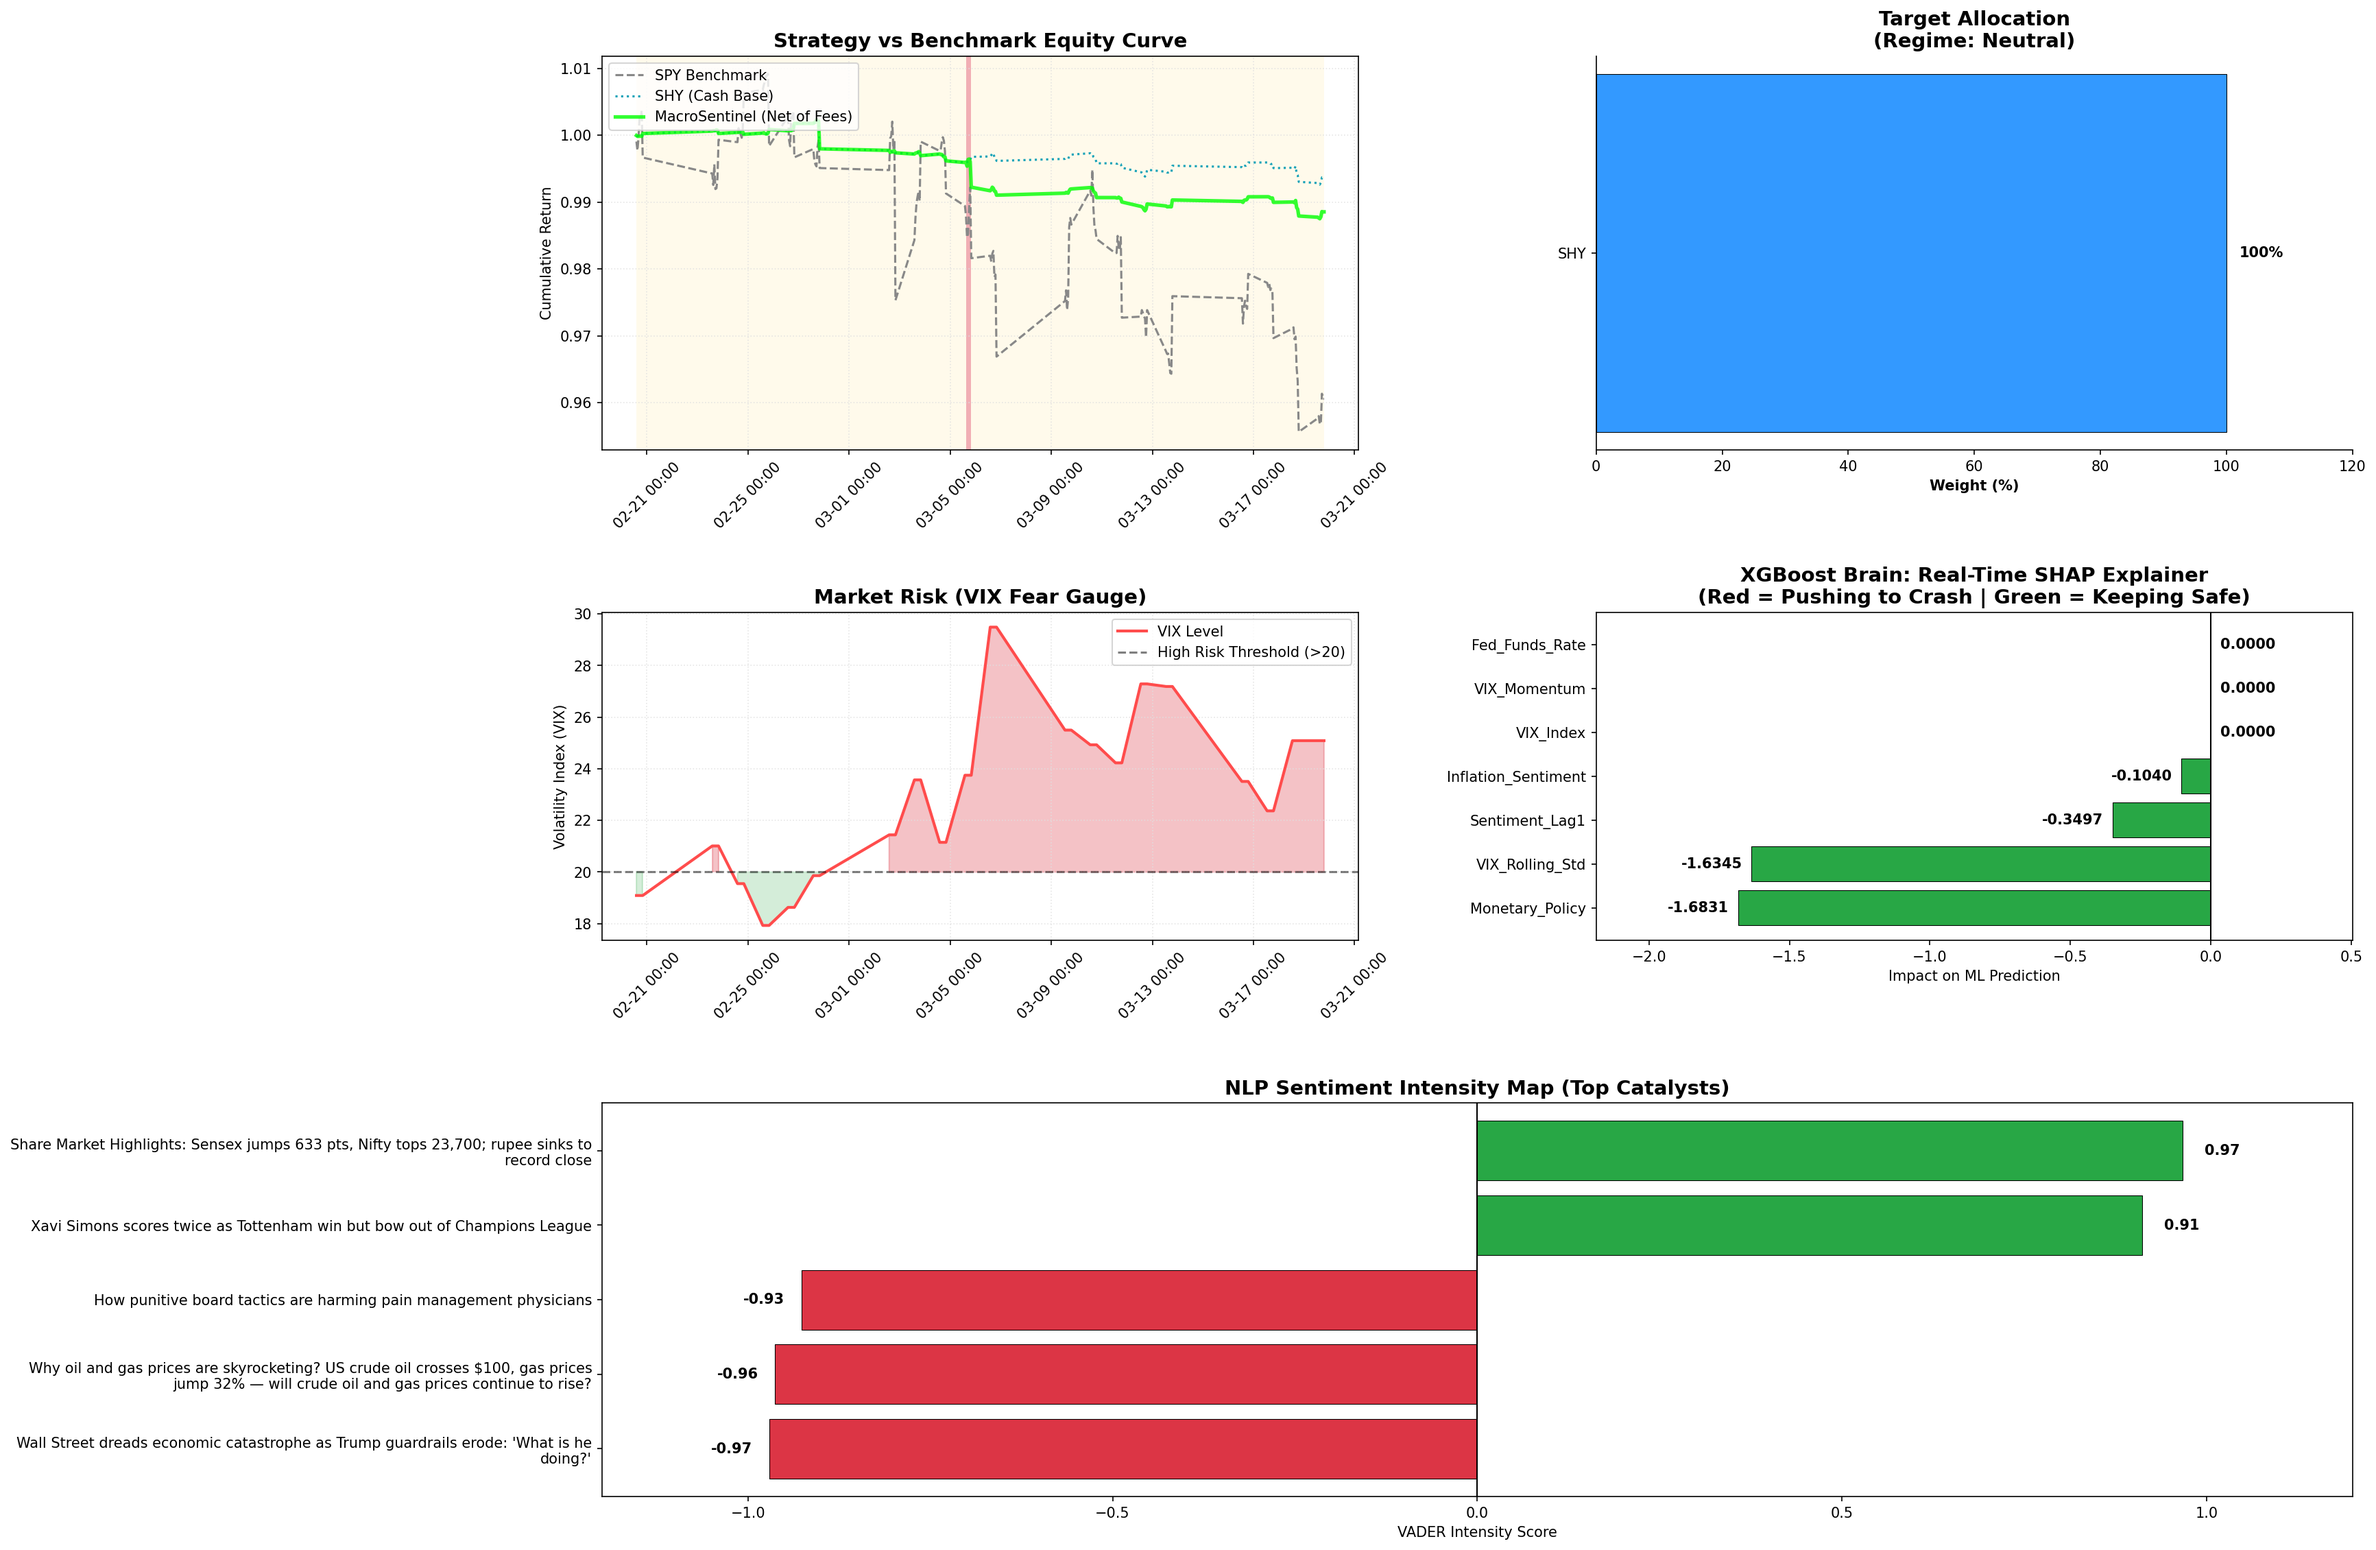
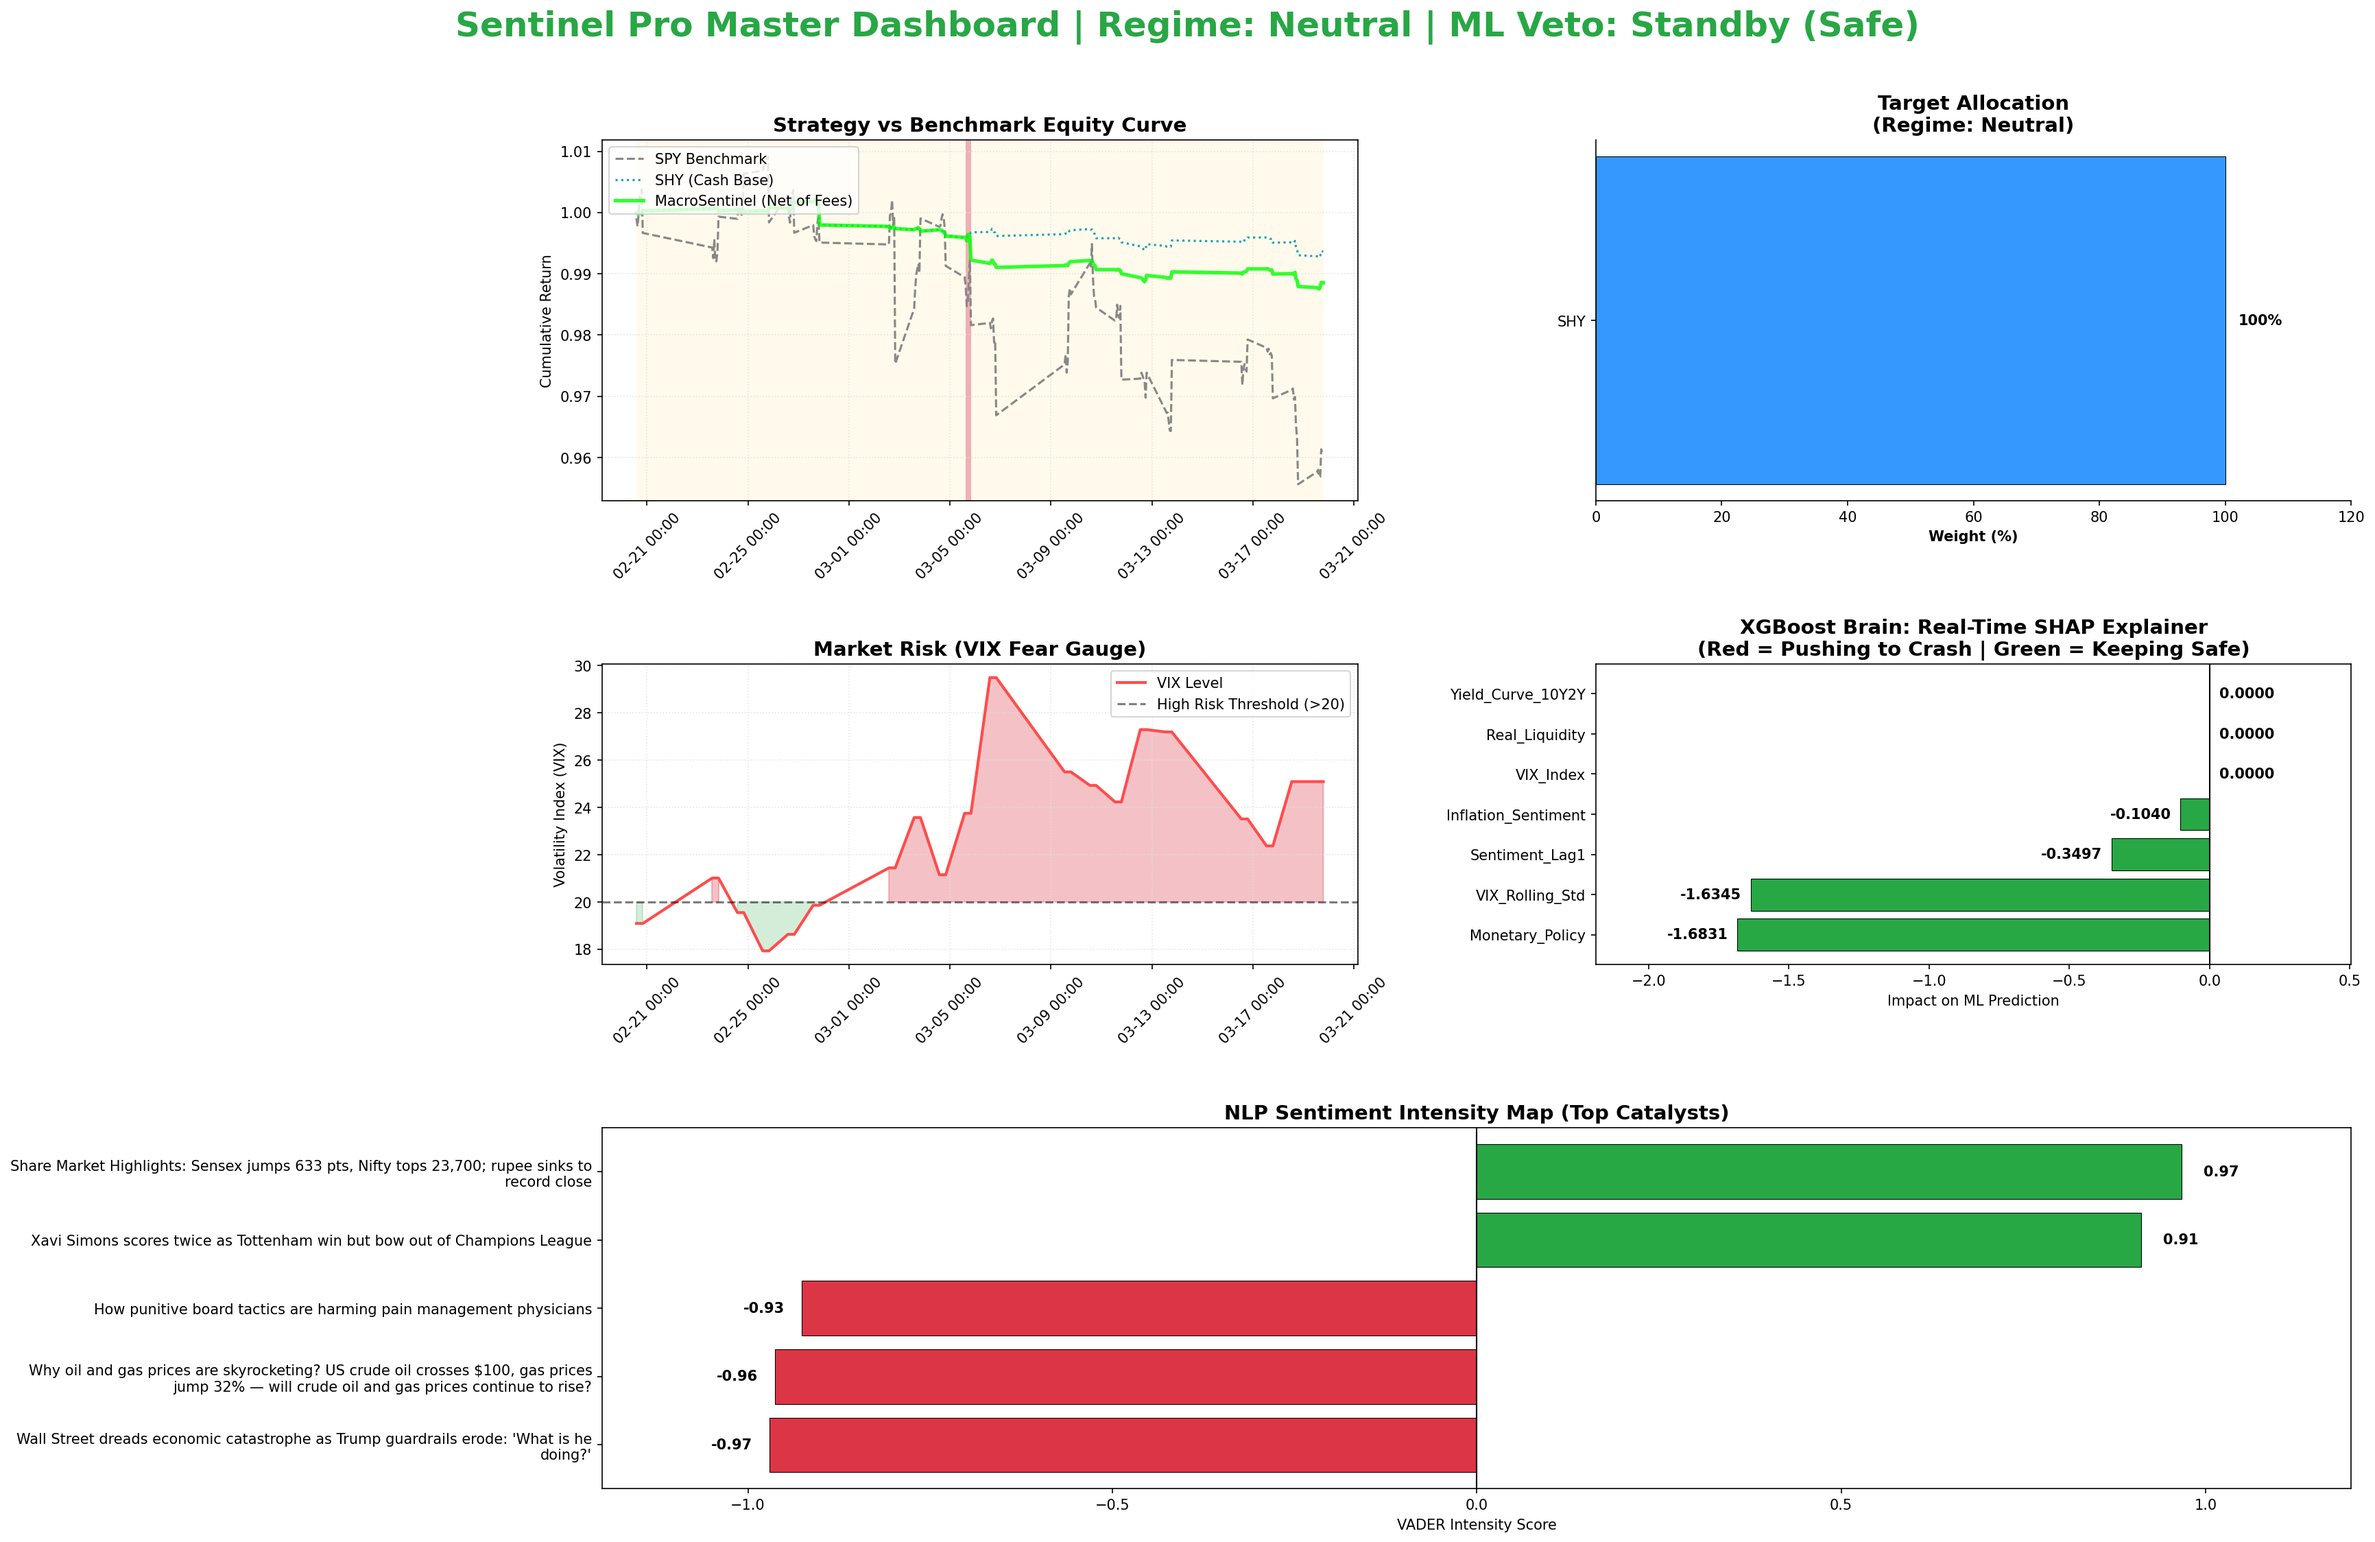
fix(ui): implement nan forward-fill to prevent chart gaps and add dynamic master alert title

diff --git a/src/visualization/sentinel_pro_dashboard.py b/src/visualization/sentinel_pro_dashboard.py
@@ -19,6 +19,7 @@ def build_dashboard():
     try:
         bt_df = pd.read_csv(os.path.join(DATA_DIR, "backtest_results.csv"))
         bt_df['Timestamp'] = pd.to_datetime(bt_df['Timestamp'])
+        bt_df = bt_df.ffill().bfill()
         
         alloc_df = pd.read_csv(os.path.join(DATA_DIR, "target_allocation.csv"))
         
@@ -27,6 +28,7 @@ def build_dashboard():
         
         regime_df = pd.read_csv(os.path.join(DATA_DIR, "regime_v2_status.csv"))
         regime_df['Timestamp'] = pd.to_datetime(regime_df['Timestamp'])
+        regime_df = regime_df.ffill().bfill()
         
         with open(SHAP_PATH, "r") as f:
             shap_data = json.load(f)
@@ -38,6 +40,20 @@ def build_dashboard():
     # 2. Set up the figure grid
     plt.style.use('default')
     fig = plt.figure(figsize=(24, 16), facecolor='white')
+    
+    # NEW UI FEATURE: Master Title Alert System
+    current_regime = regime_df['Regime_V2'].iloc[-1]
+    
+    # Safely extract boolean veto status (handles strings or bools)
+    raw_veto = regime_df['ML_Crash_Veto'].iloc[-1]
+    ml_veto = str(raw_veto).lower() == 'true' or raw_veto == True
+    
+    status_color = '#dc3545' if ml_veto else '#28a745'
+    veto_text = "ACTIVE (Crash Detected)" if ml_veto else "Standby (Safe)"
+    
+    fig.suptitle(f"Sentinel Pro Master Dashboard | Regime: {current_regime} | ML Veto: {veto_text}", 
+                 fontsize=24, fontweight='bold', color=status_color, y=0.96)
+                 
     gs = fig.add_gridspec(3, 2, width_ratios=[1.2, 1.2], height_ratios=[1.2, 1, 1.2])
     
     # --- ROW 1: Equity Curve (Top Left) ---
@@ -54,8 +70,8 @@ def build_dashboard():
     
     colors = {'Goldilocks': '#d4edda', 'Neutral': '#fff3cd', 'Stagflation': '#f8d7da', 'Defensive': '#dc3545'}
     for i in range(1, len(bt_df)):
-        regime = bt_df['Regime_V2'].iloc[i]
-        c = colors.get(regime.split(' ')[0], '#f4f4f4')
+        regime = str(bt_df['Regime_V2'].iloc[i]).split(' ')[0]
+        c = colors.get(regime, '#f4f4f4')
         ax1.axvspan(bt_df['Timestamp'].iloc[i-1], bt_df['Timestamp'].iloc[i], color=c, alpha=0.4, lw=0)
         
     # --- ROW 1: Target Allocation (Top Right) ---
@@ -82,7 +98,7 @@ def build_dashboard():
     ax3.legend(loc='upper right')
     ax3.grid(color='#e0e0e0', linestyle=':', alpha=0.8)
 
-    # --- ROW 2: SHAP Explainable AI (Middle Right) - FIXED LAYOUT ---
+    # --- ROW 2: SHAP Explainable AI (Middle Right) ---
     ax5 = fig.add_subplot(gs[1, 1])
     shap_series = pd.Series(shap_data)
     top_shap = shap_series.reindex(shap_series.abs().sort_values(ascending=False).index).head(7).sort_values(ascending=True)
@@ -93,12 +109,10 @@ def build_dashboard():
     ax5.axvline(0, color='black', linewidth=1)
     ax5.set_xlabel("Impact on ML Prediction")
     
-    # Calculate Dynamic Padding and Axes Limits based on the actual data scale
     max_shap = top_shap.abs().max()
     pad = max_shap * 0.02 if max_shap > 0 else 0.01
     ax5.set_xlim(top_shap.min() - (max_shap * 0.3), top_shap.max() + (max_shap * 0.3))
     
-    # Use smart anchors (ha='left' / ha='right') instead of manual offsets
     for bar, score in zip(bars, top_shap.values):
         if score >= 0:
             ax5.text(score + pad, bar.get_y() + bar.get_height()/2, f"{score:.4f}", color='black', va='center', ha='left', fontweight='bold')
